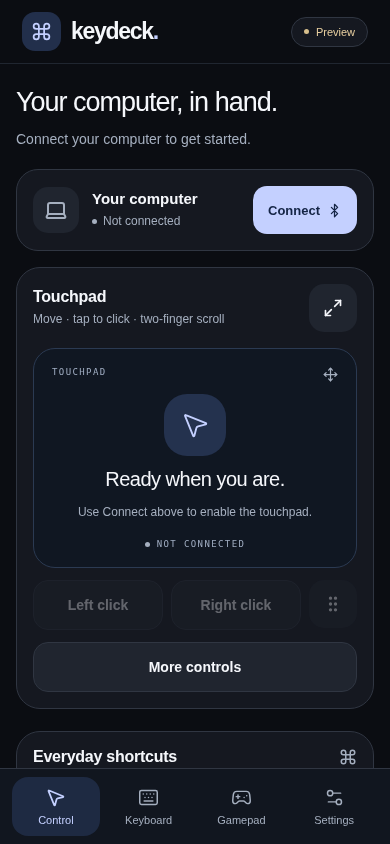
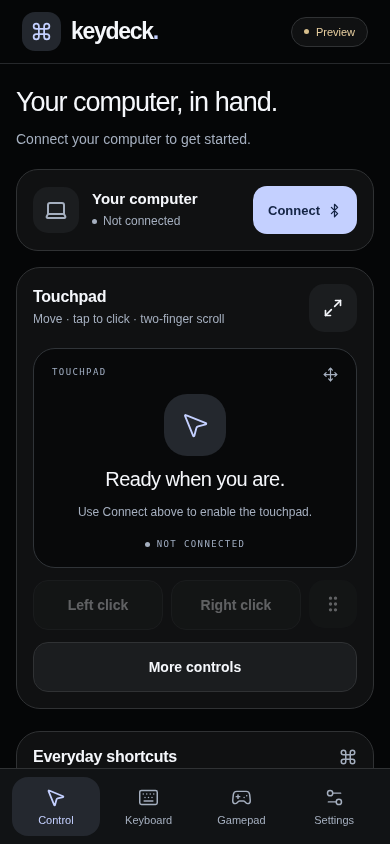
Point downloads and preview to published v0.1.2 update

Changed region(s): [[0.4, 0.4621, 0.5846, 0.5545], [0.0308, 0.0, 0.1538, 0.0616]]

diff --git a/docs/RELEASE_NOTES.md b/docs/RELEASE_NOTES.md
@@ -1,29 +1,28 @@
-## Install Keydeck
+## Install the update
 
-Download **keydeck-v0.1.0.apk** below on an Android 9+ phone, open it, and allow your browser to install apps when Android asks. This is a standalone signed APK: no Expo Go, account, or development server required.
-
-[Installation and pairing guide](https://github.com/abhieee-java/keydeck/blob/main/docs/INSTALL.md)
+Download **keydeck-v0.1.2.apk** below and install it over your existing Keydeck app. The package ID and signing certificate are unchanged; Android versionCode is now 5. No uninstall or development server is needed.
 
 ### Included
 
-- Bluetooth touchpad, left/right click, drag, scrolling, and alternative direction controls
-- ASCII keyboard input, navigation/function keys, and custom shortcuts
-- Command composer for typing into a focused computer terminal
-- Refined dark mobile interface and dedicated pairing sheet
-- Local host/sensitivity preferences, demand-driven 30/60 Hz pointer scheduling, and background session suspension
+- Rich-black theme across the touchpad, keyboard, gamepad, and navigation.
+- Refined pairing flow, larger accessible gamepad controls, and narrow-screen layouts.
+- Automatically open Android's HID service on app launch/foreground when Nearby devices permission is already granted.
+- Recognize an existing HID connection without tapping Connect.
+- Remember the last successfully connected PC and attempt to reconnect it after app restart. Explicit Disconnect clears that remembered PC and stops automatic reconnection.
+- Native HID protocol and gamepad improvements from the latest repository changes.
+
+### How automatic connection works
+
+Pair and connect once, allowing Android's Nearby devices permission. On later launches, Keydeck checks the actual HID connection and enables controls only after Android confirms it. If the link was dropped, it attempts to reconnect the remembered paired PC. It does not choose an arbitrary paired device.
+
+Keep Keydeck visible while controlling the PC. Android can unregister background HID apps; this release does not add a background service or promise control while the app is closed. A generic Bluetooth pairing or another profile's connection is not necessarily an active keyboard/mouse HID connection.
+
+The remembered Bluetooth address stays locally on the phone. Disconnect clears it. Typed drafts and command history are not persisted.
 
 ### Verification
 
-Source: `e3f47b12b6ffd1aa323e5f72fa3c534100c7b953`.
+Source: `b38091d7ee5738962d4e40eb69325c1c9a5eb2f0`.
 
-Lint, TypeScript, 15 core tests, 7 browser interaction tests, web export, and the standalone Android build passed. APK signing, package identity, bundled JavaScript, and alignment were checked. `SHA256SUMS.txt` checks the downloaded APK; `SIGNING-CERTIFICATE.txt` records the signing certificate.
+30 core tests, 9 interaction tests, lint, TypeScript, and Android compilation passed. The APK signature, alignment, package/version, bundled JavaScript, and original signing certificate were verified. Check `SHA256SUMS.txt` and `SIGNING-CERTIFICATE.txt` for download integrity and signing identity.
 
-### Preview status
-
-Physical-phone Bluetooth, TalkBack, installation, and battery measurements are still pending. Some Android firmware disables HID device mode. Keep Keydeck in the foreground; reconnect after backgrounding. Screen and Bluetooth activity consume power—no zero-battery-impact claim is made.
-
-The computer needs Bluetooth keyboard/mouse support, and initial pairing requires access to its Bluetooth settings. Text encoding uses US-layout ASCII. The console sends input only: terminal output and remote screen viewing are not included. This does not replace input in BIOS or every protected operating-system dialog.
-
-The dependency audit has a moderate advisory in Expo's build-time fingerprint dependency; no high or critical findings were reported. See [validation details](https://github.com/abhieee-java/keydeck/blob/main/docs/VALIDATION.md).
-
-GitHub's source ZIP/TAR archives are for developers and cannot be installed as Android apps.
+This remains a preview pending physical-device Bluetooth and battery validation. Compatibility depends on Android firmware and host HID support. Text uses US-layout ASCII; terminal output is not included.

diff --git a/README.md b/README.md
@@ -9,9 +9,9 @@
 
 <p align="center"><b>A Bluetooth keyboard and mouse that fits in your pocket.</b><br />Turn an Android phone into a touchpad, keyboard, and command input device for your computer.</p>
 
-<p align="center"><a href="https://github.com/abhieee-java/keydeck/releases/download/v0.1.0/keydeck-v0.1.0.apk"><b>↓ Download Android APK</b></a> · <a href="docs/INSTALL.md">Install & pair</a> · <a href="#what-you-can-do">Features</a> · <a href="CONTRIBUTING.md">Contribute</a></p>
+<p align="center"><a href="https://github.com/abhieee-java/keydeck/releases/download/v0.1.2/keydeck-v0.1.2.apk"><b>↓ Download Android APK</b></a> · <a href="docs/INSTALL.md">Install & pair</a> · <a href="#what-you-can-do">Features</a> · <a href="CONTRIBUTING.md">Contribute</a></p>
 
-> **v0.1.0 preview is available.** [Download the signed Android APK](https://github.com/abhieee-java/keydeck/releases/download/v0.1.0/keydeck-v0.1.0.apk) or read the [release notes](https://github.com/abhieee-java/keydeck/releases/tag/v0.1.0). Android compilation and automated tests pass; physical Bluetooth compatibility, installation, and battery measurements are still pending. GitHub’s “Source code” downloads are not installable apps.
+> **v0.1.2 preview is available.** [Download the signed Android APK](https://github.com/abhieee-java/keydeck/releases/download/v0.1.2/keydeck-v0.1.2.apk) or read the [release notes](https://github.com/abhieee-java/keydeck/releases/tag/v0.1.2). Android compilation and automated tests pass; physical Bluetooth compatibility, installation, and battery measurements are still pending. GitHub’s “Source code” downloads are not installable apps.
 
 ## From download to control
 

diff --git a/CHANGELOG.md b/CHANGELOG.md
@@ -2,6 +2,8 @@
 
 ## 0.1.2 — rich black and automatic connection recovery
 
+[Signed APK and release notes](https://github.com/abhieee-java/keydeck/releases/tag/v0.1.2)
+
 - Rich-black surfaces throughout the touchpad, keyboard, and gamepad.
 - Automatically initialize Bluetooth on launch/foreground when Nearby devices permission is already granted.
 - Recover an active HID connection without tapping Connect.
